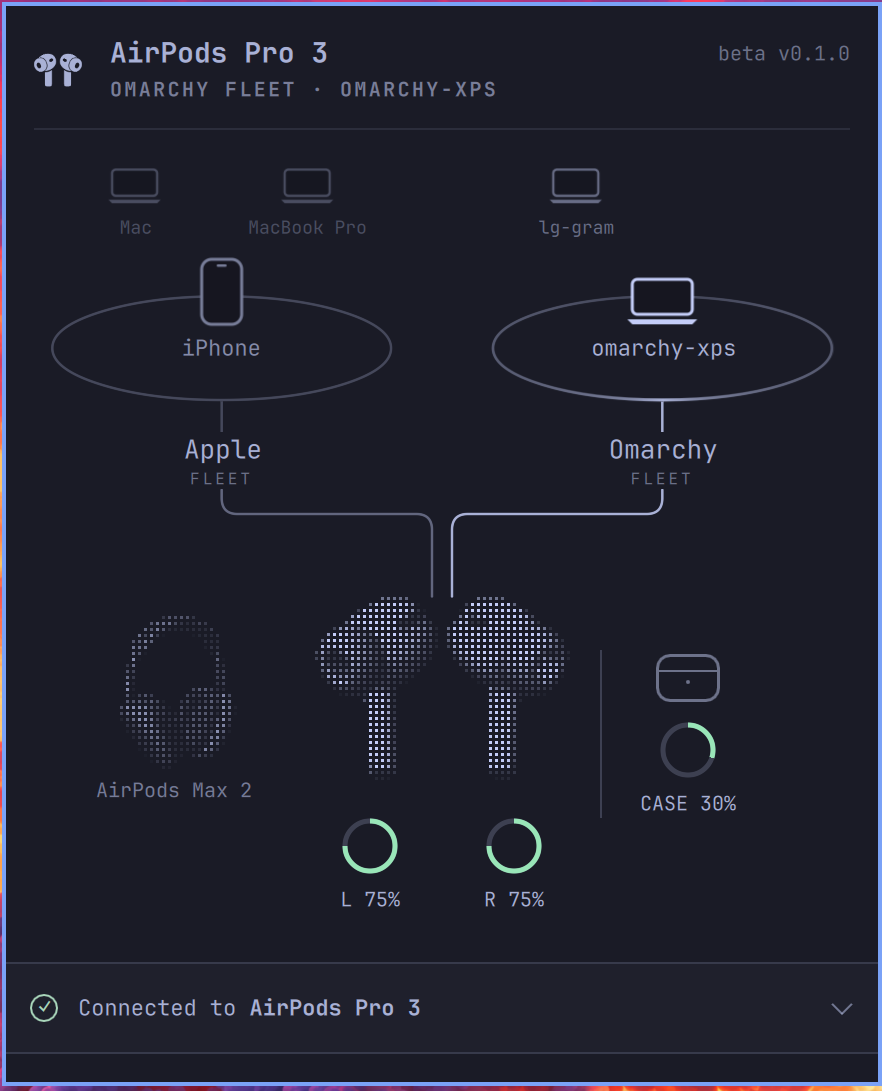
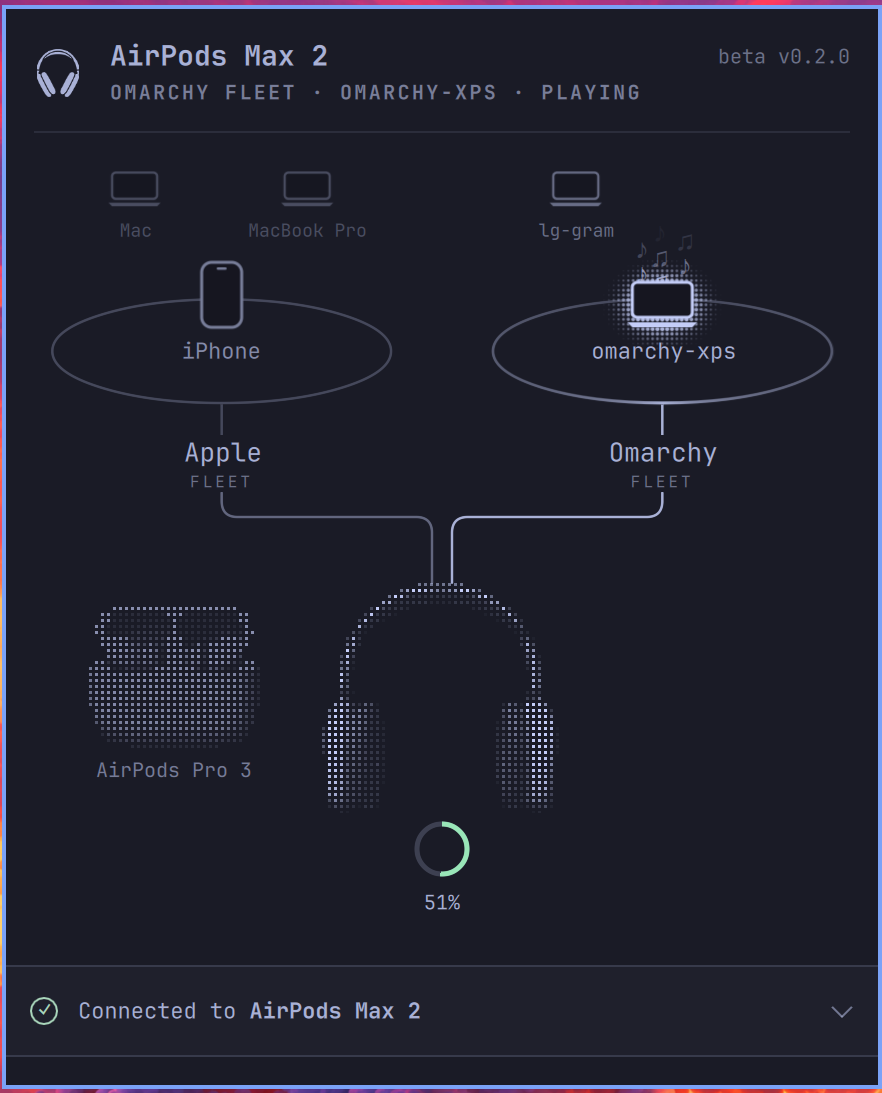
Prepare v0.2.0: new preview, tag upgrade steps, and plainer advertisement notes
The preview shows the AirPods Max 2 playing beside a tracked AirPods Pro 3.
The installation guide explains how a checkout of a release tag upgrades.
The advertisement notes describe FleetPods' own one-operation-at-a-time
rule without upstream internals.

diff --git a/src/linux/session.rs b/src/linux/session.rs
@@ -1090,13 +1090,10 @@ impl Air {
         self.wanted = true;
     }
 
-    /// BlueZ refreshes an advertisement on every property change, and a
-    /// refresh replaces the controller request it tracks for that
-    /// advertisement. An advertisement withdrawn while an overtaken request
-    /// is unanswered is freed before that reply, and bluetoothd crashes on
-    /// it (bluez 5.73 to 5.88, `add_adv_params_callback`; xps, 2026-11-22).
-    /// BlueZ reads the current payload when it registers, so a change waits
-    /// for the answer, and a withdrawal waits for changes to settle.
+    /// BlueZ starts a controller refresh for every property change. The
+    /// worker keeps one advertisement operation in flight: BlueZ reads the
+    /// current payload when it registers, so a change waits for the answer,
+    /// and a withdrawal waits for changes to settle.
     fn can_update_advertisement(&self, calls: &[PendingCall]) -> bool {
         self.registered
             && !calls.iter().any(|call| {
@@ -1128,9 +1125,9 @@ impl Air {
         if calls.iter().any(|call| matches!(call.kind, CallKind::Unadvertise { .. })) {
             return None;
         }
-        // Withdrawing an unanswered registration is the other half of the
-        // bluetoothd crash above. Its reply retires it if it is no longer
-        // wanted; an unanswered call is retired when it times out.
+        // Nor is an unanswered registration withdrawn. Its reply retires it
+        // if it is no longer wanted; an unanswered call is retired when it
+        // times out.
         if calls.iter().any(|call| matches!(call.kind, CallKind::Advertise { .. })) {
             return None;
         }
@@ -3432,7 +3429,7 @@ mod advertisement_tests {
         let soon = now + UPDATE_SETTLE / 2;
         assert!(
             air.advance_advertisement(soon, &[]).is_none(),
-            "withdrawn beside an unanswered refresh (bluetoothd crash)"
+            "withdrawn beside an unanswered refresh"
         );
         assert_eq!(air.advertisement_wake(soon), Some(now + UPDATE_SETTLE));
         assert!(matches!(
@@ -3452,7 +3449,7 @@ mod advertisement_tests {
         air.pairing_until = Some(now + Duration::from_secs(5));
         assert!(
             air.advance_advertisement(now, &calls).is_none(),
-            "an unanswered registration is not withdrawn (bluetoothd crash)"
+            "an unanswered registration is not withdrawn"
         );
         air.advertisement_reply(id, true, now);
         calls.clear();

diff --git a/docs/hardware-regression.md b/docs/hardware-regression.md
@@ -261,22 +261,10 @@ Activity no longer rejoins for ten minutes when the device that took the slot
 had reported itself playing; Play, Connect and a case cycle still reconnect.
 Regression: `input_does_not_rejoin_beside_the_playing_device_that_took_the_slot`.
 
-bluetoothd 5.88 segfaulted three times in the same window, each 4 to 6 s after
-a timed-out drop and right after two `Failed to complete registration` replies
-to the fleet advertisement. The core dump (symbolized from Arch's debuginfod)
-crashes in `add_adv_params_callback` (`src/advertising.c:1478`) on a freed
-advertisement client. `refresh_extended_adv` overwrites the client's single
-tracked request id when a property change refreshes it during registration,
-so `client_free` cancels only the newer request and the older reply arrives
-after the free. FleetPods supplied both halves: it emitted `PropertiesChanged`
-on every payload change, and withdrew an unanswered registration. Both now
-wait for the registration's reply. Regressions:
+The fleet advertisement now keeps one BlueZ operation in flight: a payload
+change waits for the registration's reply, and a withdrawal waits for that reply
+and for one second after the last change. Regressions:
 `payload_changes_wait_for_an_answered_registration`,
-`released_intent_retires_a_registration_once_answered`, and the updated
-`pairing_retires_inflight_registration_before_resuming`. The BlueZ bug itself
-remains in 5.73 to 5.88: two property changes in quick succession on a
-registered advertisement, followed by its removal, can still lose a request id.
-A BlueZ build with AddressSanitizer reproduced that in 1 to 38 rounds, so a
-withdrawal now also waits one second after the last payload change, by which
-time BlueZ has answered every refresh. Regression:
+`released_intent_retires_a_registration_once_answered`,
+`pairing_retires_inflight_registration_before_resuming`, and
 `withdrawal_waits_for_the_last_payload_change_to_settle`.

diff --git a/docs/connection-lifecycle.md b/docs/connection-lifecycle.md
@@ -121,9 +121,9 @@ an accessory switch clears the record; explicit Connect and Play never read it.
 Fleet advertisement intent belongs to the Linux radio worker. Pairing temporarily
 blocks registration without clearing that intent, including a first request
 received during pairing. While a registration is unanswered the worker neither
-changes the payload nor withdraws the advertisement: BlueZ 5.73 to 5.88 crash
-when an advertisement is freed while a refresh it started is unanswered. A
-change made meanwhile is sent once the registration succeeds; withdrawal waits
+changes the payload nor withdraws the advertisement, so only one advertisement
+operation is in flight. A change made meanwhile is sent once the registration
+succeeds; withdrawal waits
 for the reply or the call's timeout, and for one second after the last payload
 change. One reconciler registers or retires the BlueZ object.
 Its `retry::Task` allows five registration attempts, with 5/10/20/40-second waits;

diff --git a/docs/installation.md b/docs/installation.md
@@ -56,10 +56,18 @@ For calls or recording, choose your AirPods as the input device in the applicati
 
 ## Upgrade
 
-From the checkout, run:
+From a checkout that follows `master`, run:
 
 ```sh
 git pull --ff-only
+./setup
+```
+
+A checkout of a release tag, such as one cloned with `--branch v0.2.0`, has no branch to pull. Check out the newer tag instead:
+
+```sh
+git fetch --tags
+git checkout v0.2.0
 ./setup
 ```
 
